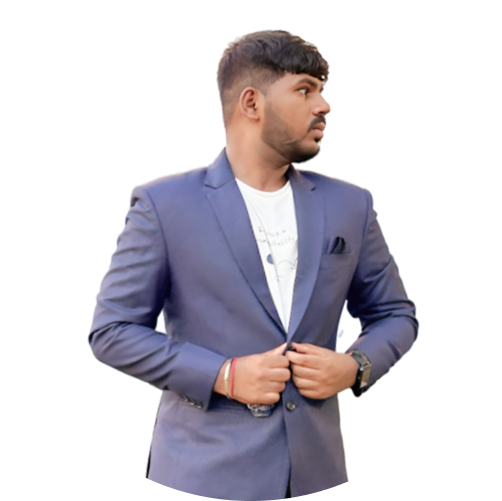
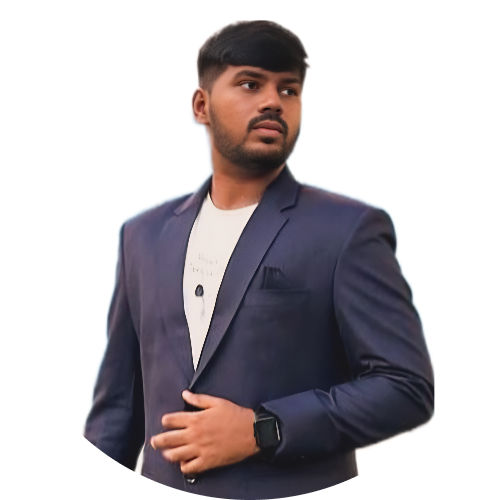
working on final section of resume page

diff --git a/app/resume/page.jsx b/app/resume/page.jsx
@@ -22,7 +22,7 @@ import {
     SiPostgresql,
     SiPostman,
     SiFirebase
-  } from "react-icons/si";
+} from "react-icons/si";
 
   //about data
   const about = {
@@ -102,19 +102,19 @@ import {
     description:"Quick learner and Self taught Android Developer with over 2+ years of experience in Android Development using Java, Kotlin and adept at writing high quality code for mobile application development with user-friendly user interfaces for users. Efficient with Agile development methodology for module testing and proficient in debugging and fixing errors.",
     items: [
       {
-        institution: "Vasantdada Patil Pratisthan's College Of Engineering & VA.",
-        degree: "Bachelor Of Engineering in Information Technology.",
+        institution: "University Of Mumbai",
+        degree: "Bachelor of Engineering in IT",
         result: "8.425 CGPA",
         duration: "Jan 2021 - July 2024"
       },
       {
-        institution:"Amrita Vidyalayam High School.",
+        institution:"Amrita Vidyalayam School.",
         degree: "11th & 12th Science PCM.",
         result: "65.2%",
         duration:"Jun 2018 - Jun 2020"
       },
       {
-        institution:"Mahatma Gandhi Mission Primary & Secondary School.",
+        institution:"MGM School.",
         degree: "1st - 10th Standard.",
         result: "80.0%",
         duration:"Jun 2008 - Jun 2018"
@@ -189,26 +189,109 @@ import {
   };
 
 const Resume = () => {
-    return(
-        <motion.div initial = {{opacity: 0}}
-        animate = {{
+    return (
+      <motion.div
+        initial={{ opacity: 0 }}
+        animate={{
           opacity: 1,
-          transition: {delay: 2.4, duration:0.4, ease:"easeIn"},
+          transition: { delay: 2.4, duration: 0.4, ease: "easeIn" },
         }}
         className="min-h-[80vh] flex items-center justify-center py-12 xl:py-0"
-        >
+      >
         <div className="container mx-auto">
-          <Tabs defaultValue="experience"
-          className="flex flex-col xl:flex-row gap-[60px]">
-            <TabsList className="flex flex-col w-full max-w-[380px] mx-auto xl:mx-0">
-            <TabsTrigger value="experience">Experience</TabsTrigger>
-            <TabsTrigger value="education">Education</TabsTrigger>
-            <TabsTrigger value="skills">Skills</TabsTrigger>
-            <TabsTrigger value="aboutme">About Me</TabsTrigger>
+          <Tabs
+            defaultValue="experience"
+            className="flex flex-col xl:flex-row gap-[60px]"
+          >
+            <TabsList className="flex flex-col w-full max-w-[380px] mx-auto xl:mx-0 gap-6">
+              <TabsTrigger value="experience">Experience</TabsTrigger>
+              <TabsTrigger value="education">Education</TabsTrigger>
+              <TabsTrigger value="skills">Skills</TabsTrigger>
+              <TabsTrigger value="aboutme">About Me</TabsTrigger>
             </TabsList>
+
+            <div className="min-h-[70vh] w-full">
+              <TabsContent value="experience" className="w-full h-full">
+                <div className="flex flex-col gap-[30px] text-center xl:text-left">
+                  <h3 className="text-4xl font-bold">{experience.title}</h3>
+                  <p className="max-w-[750px] text-white/60 mx-auto xl:mx-0">
+                    {experience.description}
+                  </p>
+                  <ScrollArea className="h-[400px]">
+                    <ul className="grid grid-cols-1 lg:grid-cols-2 gap-[30px]">
+                      {experience.items.map((item, index) => {
+                        return (
+                          <li
+                            key={index}
+                            className="bg-[#232329] h-[184px] py-6 px-10 rounded-xl flex flex-col justify-center items-center lg:items-start gap-1"
+                          >
+                            <span className="text-accent">{item.duration}</span>
+                            <h3 className="text-xl max-w-[260px] min-h-[60px] text-center lg:text-left">
+                              {item.position}
+                            </h3>
+                            <div className="flex items-center gap-3">
+                              <span className="w-[8px] h-[8px] rounded-full bg-accent "></span>
+                              <p className="text-white/60">{item.company}</p>
+                            </div>
+                          </li>
+                        );
+                      })}
+                    </ul>
+                  </ScrollArea>
+                </div>
+              </TabsContent>
+
+              <TabsContent value="education" className="w-full">
+                <div className="flex flex-col gap-[30px] text-center xl:text-left">
+                  <h3 className="text-4xl font-bold">{education.title}</h3>
+                  <p className="max-w-[750px] text-white/60 mx-auto xl:mx-0">
+                    {education.description}
+                  </p>
+                  <ScrollArea className="h-[400px]">
+                    <ul className="grid grid-cols-1 lg:grid-cols-2 gap-[30px]">
+                      {education.items.map((item, index) => {
+                        return (
+                          <li
+                            key={index}
+                            className="bg-[#232329] h-[184px] py-6 px-10 rounded-xl flex flex-col justify-center items-center lg:items-start gap-1"
+                          >
+                            <span className="text-accent">{item.duration}</span>
+                            <h3 className="text-xl max-w-[260px] min-h-[60px] text-center lg:text-left">
+                              {item.degree}
+                            </h3>
+                            <div className="flex items-center gap-3">
+                              <span className="w-[6px] h-[6px] rounded-full bg-accent "></span>
+                              <p className="text-white/60">{item.result}</p>
+                            </div>
+                            <div className="flex items-center gap-3">
+                              <span className="w-[6px] h-[6px] rounded-full bg-accent "></span>
+                              <p className="text-white/60">
+                                {item.institution}
+                              </p>
+                            </div>
+                          </li>
+                        );
+                      })}
+                    </ul>
+                  </ScrollArea>
+                </div>
+              </TabsContent>
+
+              <TabsContent value="skills" className="w-full h-full">
+                <div className="flex flex-col gap-[30px]">
+                  <div>
+                    <h3></h3>
+                  </div>
+                </div>
+              </TabsContent>
+
+              <TabsContent value="aboutme" className="w-full">
+                About
+              </TabsContent>
+            </div>
           </Tabs>
         </div>
-        Resume</motion.div>
+      </motion.div>
     );
 }
 

diff --git a/app/services/page.jsx b/app/services/page.jsx
@@ -7,8 +7,8 @@ import { motion } from "framer-motion";
 
 const services = [
   { num: "01", title: "Android Development", description: "Harness the power of Android with cutting-edge development tailored to your unique vision. I specialize in creating intuitive, high-performance applications that engage users and drive business growth. From initial concept to final deployment, I ensure a seamless, user-friendly experience optimized for the latest Android devices.", href: "https://play.google.com/store/apps/details?id=com.prathameshkumbhar.bfit&hl=en_US" },
-  { num: "02", title: "UI/UX Design", description: "Design is more than just aesthetics; it's about creating experiences that delight and retain users. I specialize in UI/UX design that prioritizes usability, accessibility, and user satisfaction. Through meticulous research, wireframing, prototyping, and testing, I create interfaces that are both beautiful and functional, ensuring your users enjoy a seamless interaction with your product.", href: "https://www.figma.com/design/zDNJUZaiq2vr691aUctjyi/rescue-app?node-id=0-1&t=zmQleoS4cLpvpTZi-1" },
-  { num: "03", title: "Web Development", description: "Empower your online presence with responsive, scalable, and visually appealing websites. My expertise in web development spans front-end and back-end solutions, utilizing modern frameworks and technologies. Whether you need an e-commerce platform, a corporate site, or a personal blog, I deliver websites that are fast, secure, and easy to navigate.", href: "" },
+  { num: "02", title: "UI/UX Design", description: "Design is more than just aesthetics; it's about creating experiences that delight and retain users. I specialize in UI/UX design that prioritizes usability, accessibility, and user satisfaction. Through meticulous research, wireframing, prototyping, and testing, I create interfaces that are both beautiful and functional, ensuring your users enjoy a seamless interaction with your product.", href: "https://www.figma.com/design/SsD0V1GOPwqYcO6iQHD3eL/fitverse?node-id=0-1&t=m4uuejHJOyO9sOsE-1" },
+  { num: "03", title: "Web Development", description: "Empower your online presence with responsive, scalable, and visually appealing websites. My expertise in web development spans front-end and back-end solutions, utilizing modern frameworks and technologies. Whether you need an e-commerce platform, a corporate site, or a personal blog, I deliver websites that are fast, secure, and easy to navigate.", href: "https://github.com/PrathameshKumbhar291113" },
   { num: "04", title: "Poster Design", description: "Make a statement with professionally designed posters that capture attention and communicate your message effectively. Whether for events, promotions, or informational purposes, my poster designs combine striking visuals with clear, compelling content. I ensure each design is tailored to your brand and purpose, helping you stand out and engage your audience.", href: "https://www.canva.com/design/DAGFwGLw-YU/qtkocuKuTjzZVE-c10Hn1A/view?utm_content=DAGFwGLw-YU&utm_campaign=designshare&utm_medium=link&utm_source=editor" },
 ];
 

diff --git a/components/ui/tabs.jsx b/components/ui/tabs.jsx
@@ -11,18 +11,19 @@ const TabsList = React.forwardRef(({ className, ...props }, ref) => (
   <TabsPrimitive.List
     ref={ref}
     className={cn(
-      "inline-flex h-10 items-center justify-center rounded-md bg-slate-100 p-1 text-slate-500 dark:bg-slate-800 dark:text-slate-400",
+      "inline-flex h-auto rounded-md p-1 text-primary",
       className
     )}
-    {...props} />
-))
+    {...props}
+  />
+));
 TabsList.displayName = TabsPrimitive.List.displayName
 
 const TabsTrigger = React.forwardRef(({ className, ...props }, ref) => (
   <TabsPrimitive.Trigger
     ref={ref}
     className={cn(
-      "inline-flex items-center justify-center whitespace-nowrap rounded-sm px-3 py-1.5 text-sm font-medium ring-offset-white transition-all focus-visible:outline-none focus-visible:ring-2 focus-visible:ring-slate-950 focus-visible:ring-offset-2 disabled:pointer-events-none disabled:opacity-50 data-[state=active]:bg-white data-[state=active]:text-slate-950 data-[state=active]:shadow-sm dark:ring-offset-slate-950 dark:focus-visible:ring-slate-300 dark:data-[state=active]:bg-slate-950 dark:data-[state=active]:text-slate-50",
+      "inline-flex items-center w-full bg-[#27272c] justify-center whitespace-nowrap text-white rounded-lg p-3 text-base font-medium ring-offset-white transition-all disable:pointer-events-none disable:opacity-50 data-[state=active]:bg-accent data-[state=active]:text-primary data-[state=active]:font-bold data-[state=active]:shadow-sm",
       className
     )}
     {...props} />
@@ -33,11 +34,12 @@ const TabsContent = React.forwardRef(({ className, ...props }, ref) => (
   <TabsPrimitive.Content
     ref={ref}
     className={cn(
-      "mt-2 ring-offset-white focus-visible:outline-none focus-visible:ring-2 focus-visible:ring-slate-950 focus-visible:ring-offset-2 dark:ring-offset-slate-950 dark:focus-visible:ring-slate-300",
+      "min-h-[480px] ring-offset-white focus-visible:outline-none focus-visible:ring-2 focus-visible:ring-slate-950 focus-visible:ring-offset-2 dark:ring-offset-slate-950 dark:focus-visible:ring-slate-300",
       className
     )}
-    {...props} />
-))
+    {...props}
+  />
+));
 TabsContent.displayName = TabsPrimitive.Content.displayName
 
 export { Tabs, TabsList, TabsTrigger, TabsContent }

diff --git a/components/ui/scroll-area.jsx b/components/ui/scroll-area.jsx
@@ -32,7 +32,7 @@ const ScrollBar = React.forwardRef(({ className, orientation = "vertical", ...pr
       className
     )}
     {...props}>
-    <ScrollAreaPrimitive.ScrollAreaThumb className="relative flex-1 rounded-full bg-slate-200 dark:bg-slate-800" />
+    <ScrollAreaPrimitive.ScrollAreaThumb className="relative flex-1 rounded-full bg-accent dark:bg-slate-800" />
   </ScrollAreaPrimitive.ScrollAreaScrollbar>
 ))
 ScrollBar.displayName = ScrollAreaPrimitive.ScrollAreaScrollbar.displayName

diff --git a/components/Photo.jsx b/components/Photo.jsx
@@ -24,7 +24,7 @@ const Photo = () => {
           }}
         >
           <Image
-            src="/photo.png"
+            src="/photo1.png"
             priority
             quality={100}
             fill
